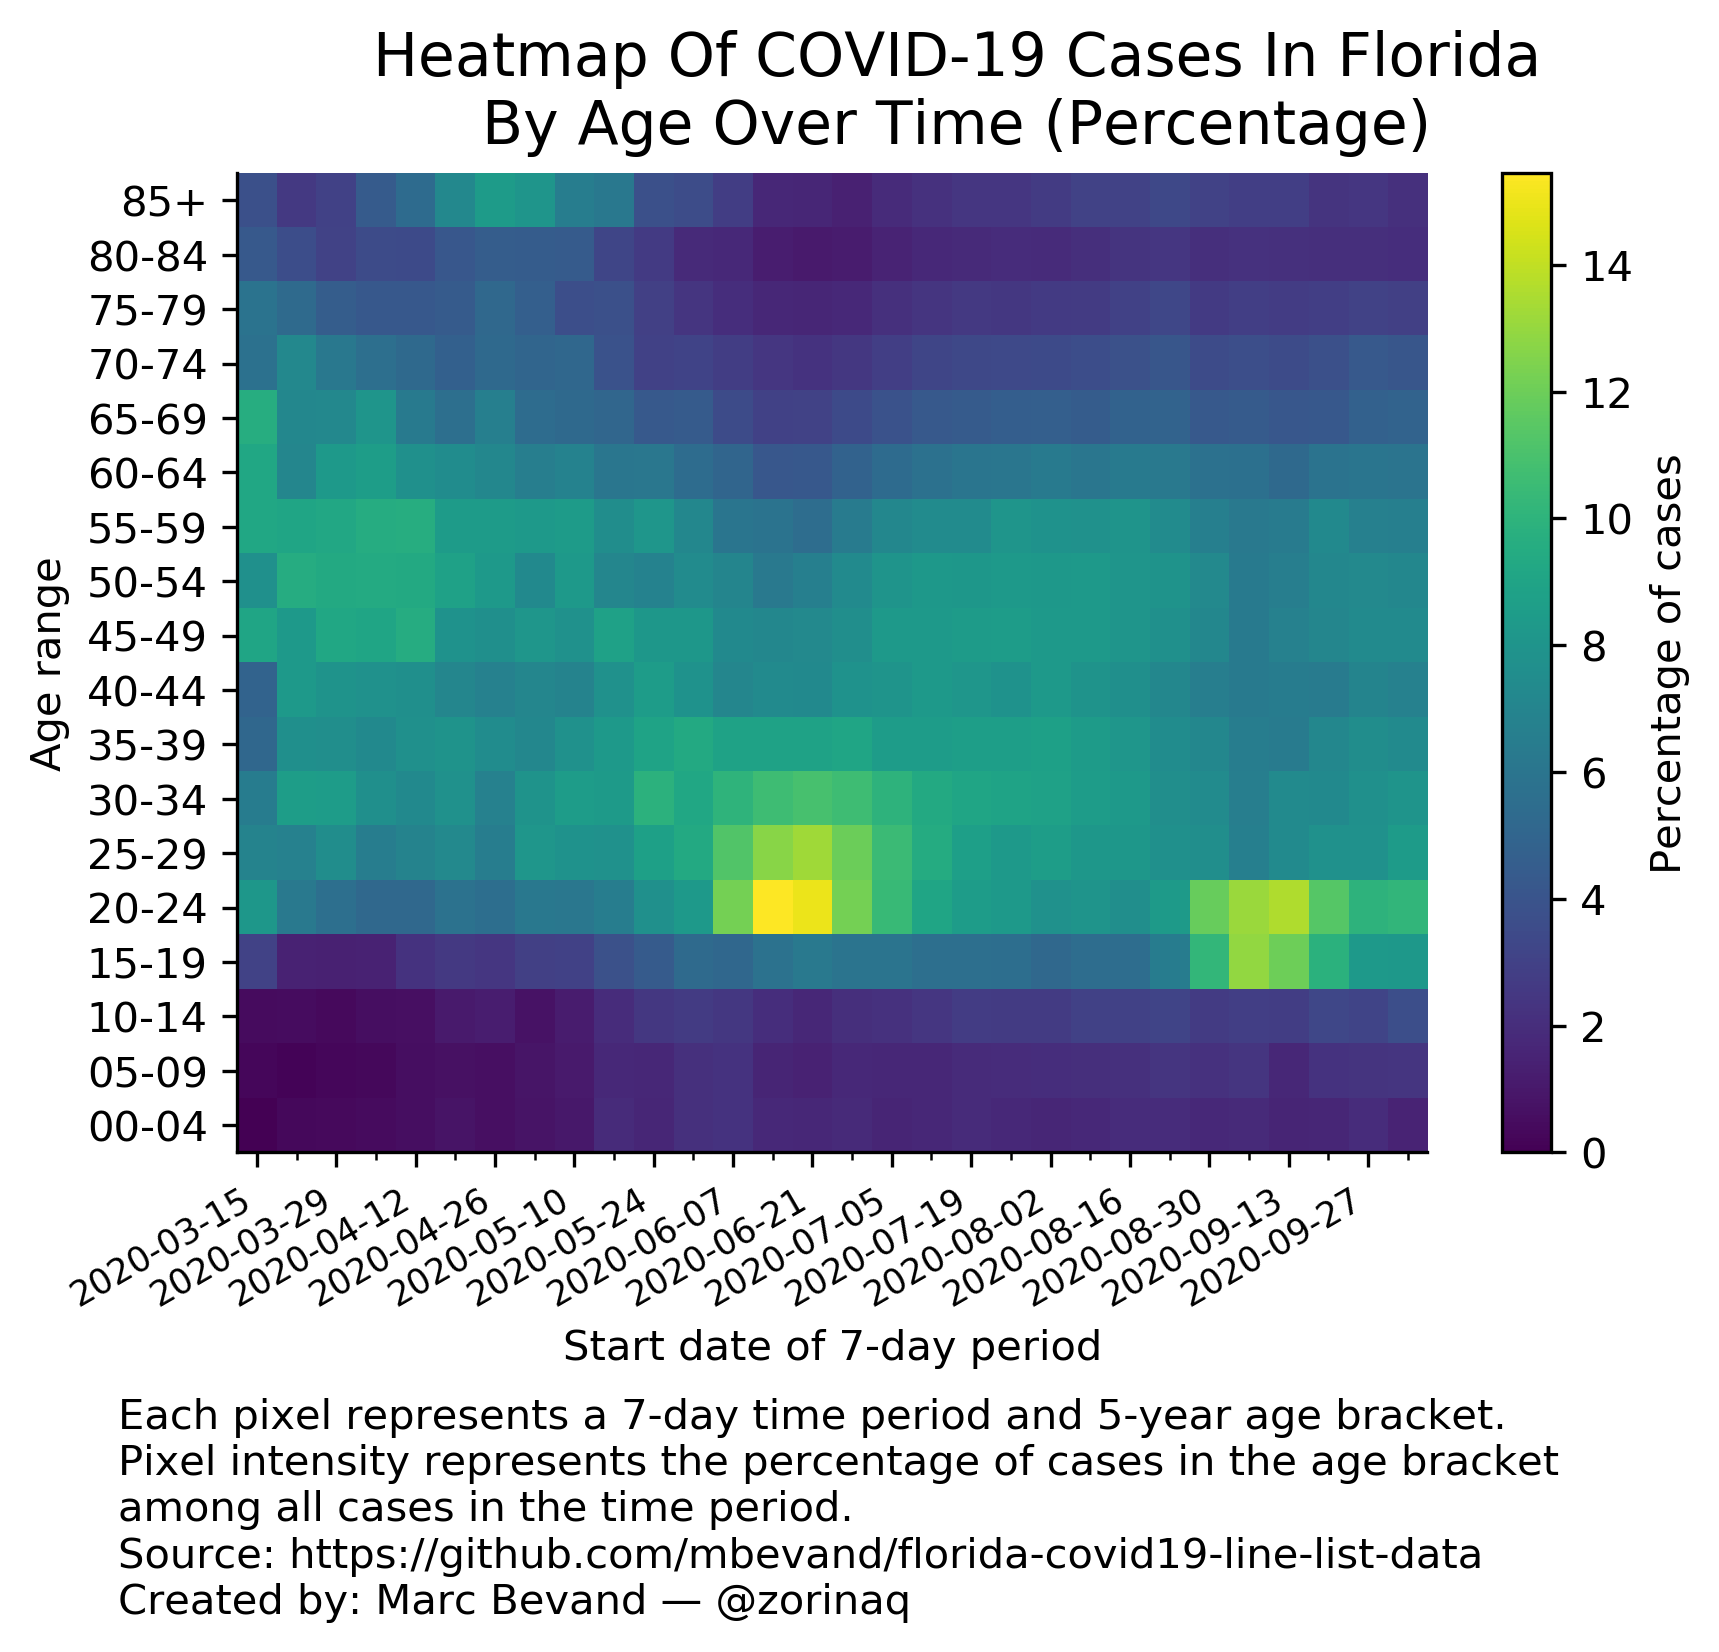
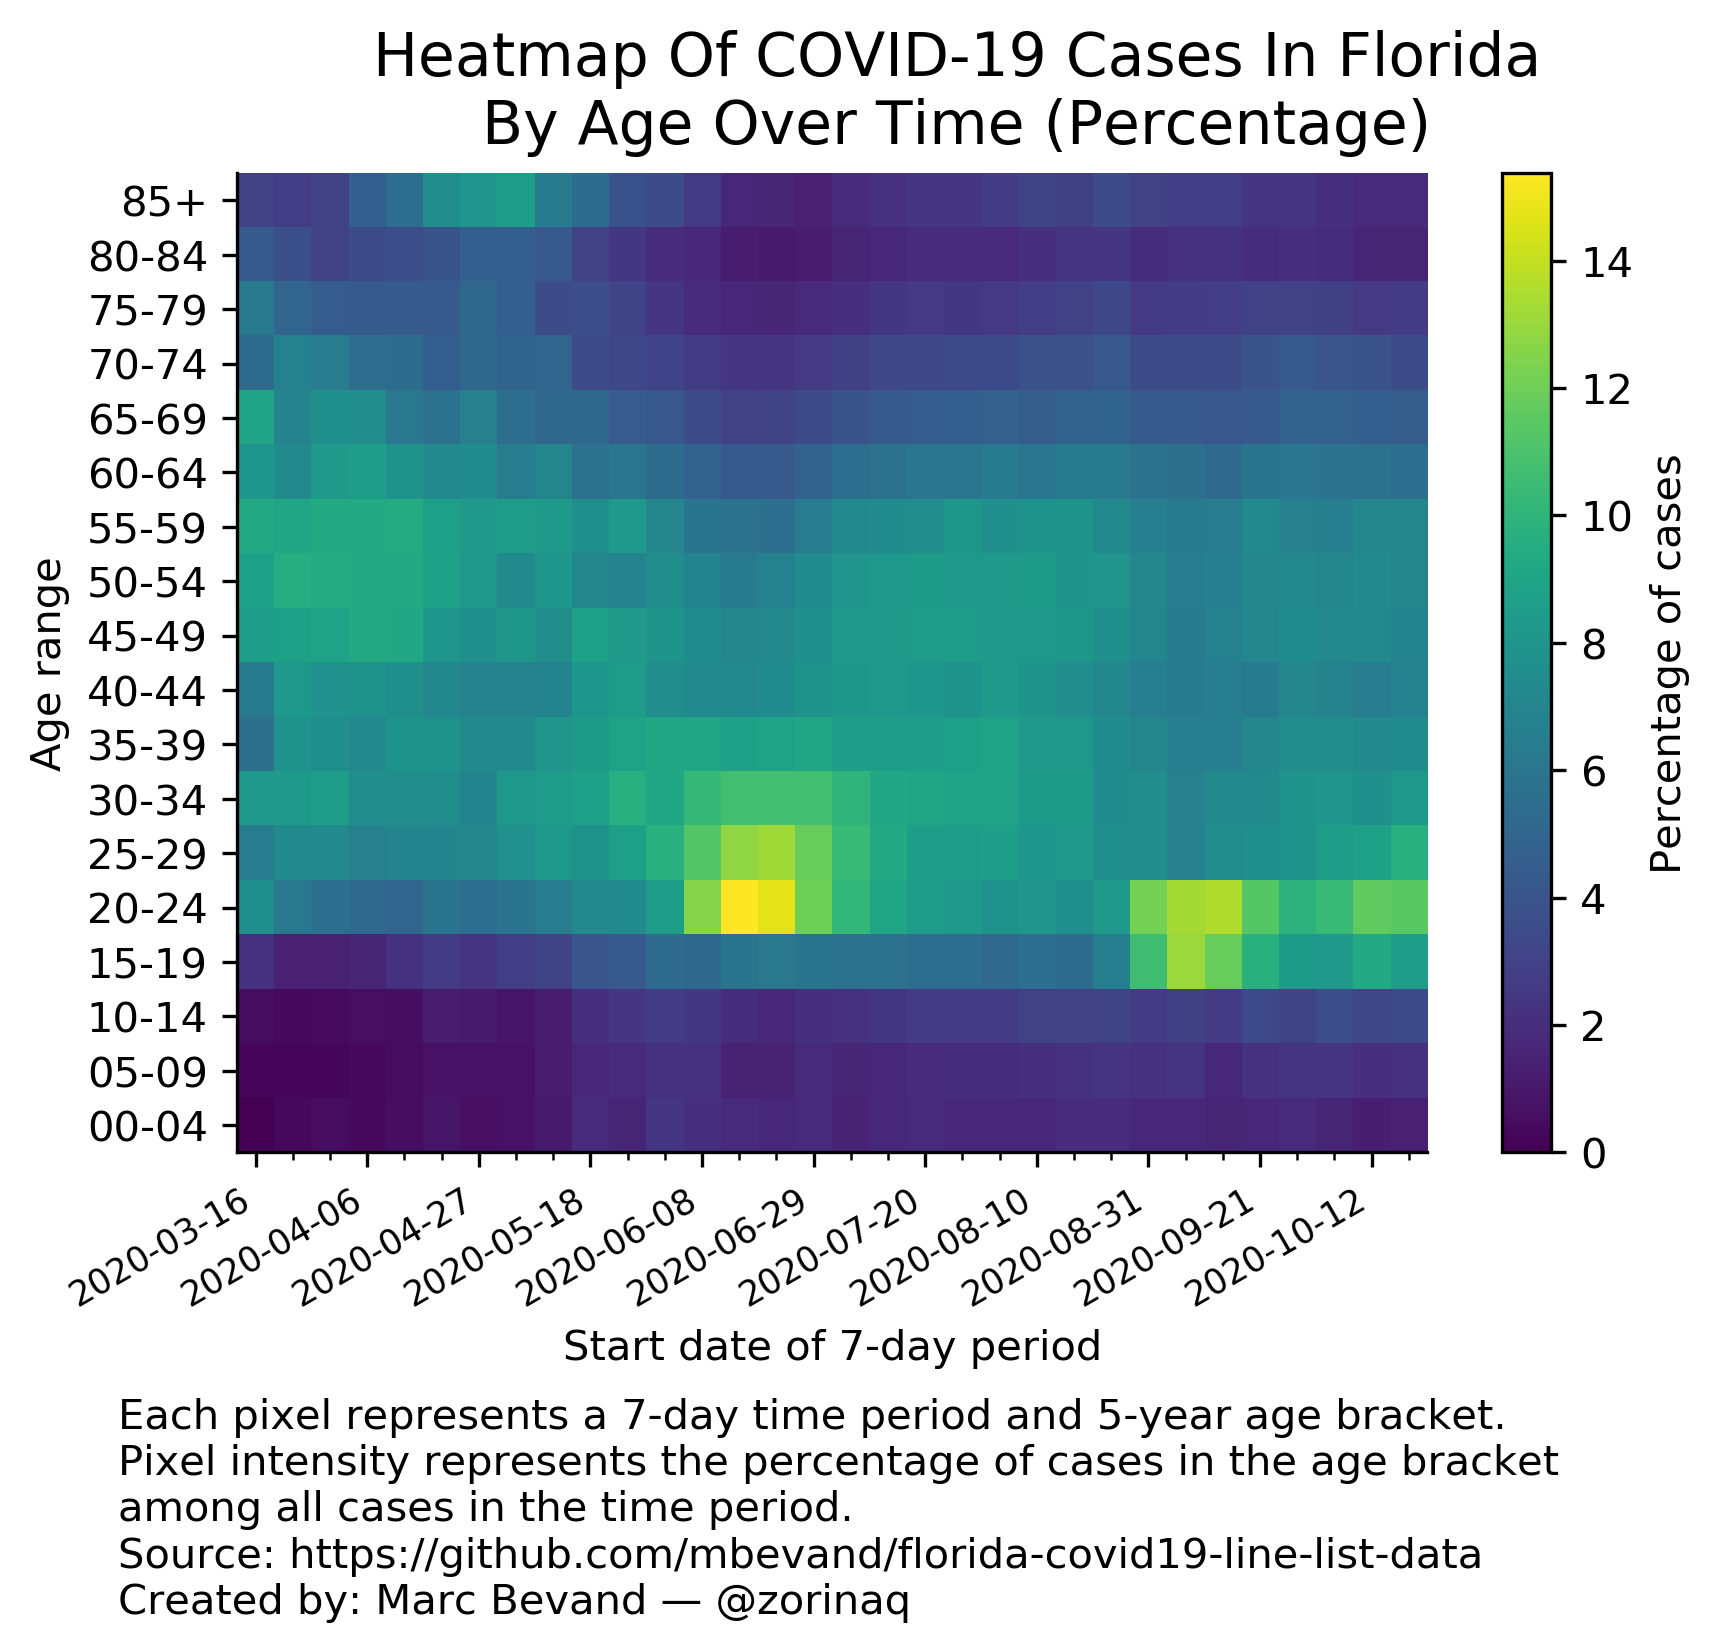
update heatmap

diff --git a/README.md b/README.md
@@ -1,6 +1,6 @@
 # Forecasting deaths and analyzing age trends of COVID-19 cases in Florida
 
-*Updated: 14 Oct 2020*
+*Updated: 26 Oct 2020*
 
 Author: Marc Bevand
 
@@ -388,42 +388,44 @@ It creates various heatmaps of cases by age over time:
 
 ```
 $ ./heatmap.py
-Opening data_fdoh/2020-10-11-09-26-07.csv.gz
+Opening data_fdoh/2020-10-26-07-47-09.csv.gz
 Number of COVID-19 cases per 7-day time period in Florida by age bracket over time:
 period_start, 00-04, 05-09, 10-14, 15-19, 20-24, 25-29, 30-34, 35-39, 40-44, 45-49, 50-54, 55-59, 60-64, 65-69, 70-74, 75-79, 80-84, 85+, median_age
-  2020-03-01,     0,     0,     0,     0,     1,     1,     0,     0,     0,     0,     1,     1,     2,     2,     2,     3,     0,     0,  65.0
-  2020-03-08,     0,     0,     0,     4,     7,     3,     2,     5,     6,     8,     4,     8,     9,    17,    10,     4,     3,     1,  59.0
-  2020-03-15,     0,     2,     3,    21,    57,    48,    45,    36,    34,    63,    54,    64,    64,    67,    40,    41,    30,    26,  53.0
-  2020-03-22,    10,     5,    17,    49,   205,   223,   282,   254,   272,   273,   315,   298,   234,   235,   237,   176,   121,    84,  50.0
-  2020-03-29,    32,    21,    28,   109,   428,   577,   652,   583,   604,   701,   716,   704,   631,   550,   470,   345,   234,   228,  50.0
-  2020-04-05,    34,    25,    42,   108,   383,   481,   568,   541,   577,   669,   699,   706,   636,   593,   418,   313,   262,   326,  51.0
-  2020-04-12,    37,    35,    41,   142,   330,   437,   465,   494,   490,   608,   595,   613,   493,   405,   335,   270,   220,   344,  50.0
-  2020-04-19,    49,    39,    67,   149,   341,   426,   459,   466,   416,   462,   518,   498,   441,   332,   279,   259,   246,   424,  50.0
-  2020-04-26,    29,    29,    55,   111,   251,   295,   307,   339,   305,   348,   374,   382,   323,   301,   239,   235,   205,   381,  52.0
-  2020-05-03,    37,    38,    35,   132,   276,   364,   355,   321,   319,   364,   328,   373,   297,   245,   225,   211,   202,   362,  50.0
-  2020-05-10,    51,    58,    60,   151,   313,   401,   435,   399,   353,   399,   423,   432,   351,   270,   262,   190,   225,   334,  49.0
-  2020-05-17,    94,    88,    98,   193,   329,   392,   423,   417,   392,   443,   357,   379,   306,   257,   197,   188,   161,   311,  46.0
-  2020-05-24,    91,    94,   136,   242,   424,   481,   544,   491,   468,   447,   375,   444,   336,   237,   165,   159,   144,   207,  42.0
-  2020-05-31,   162,   161,   201,   400,   624,   707,   693,   706,   594,   617,   560,   539,   413,   333,   232,   181,   138,   269,  40.0
-  2020-06-07,   258,   256,   290,   592,  1399,  1287,  1151,  1019,   813,   839,   805,   688,   575,   402,   320,   235,   205,   324,  37.0
-  2020-06-14,   392,   342,   436,  1270,  3356,  2757,  2317,  1940,  1605,  1554,  1362,  1277,   915,   652,   528,   378,   270,   379,  34.0
-  2020-06-21,   764,   643,   762,  2757,  6592,  5830,  4807,  3907,  3229,  3192,  2944,  2436,  1868,  1347,   989,   717,   496,   721,  34.0
-  2020-06-28,  1068,  1047,  1202,  3466,  7125,  6985,  6216,  5291,  4588,  4441,  4301,  3740,  2815,  2030,  1457,  1052,   676,   826,  36.0
-  2020-07-05,  1109,  1188,  1523,  4110,  7210,  7311,  6943,  5948,  5553,  5755,  5535,  4983,  3752,  2696,  1994,  1488,  1059,  1303,  39.0
-  2020-07-12,  1369,  1380,  1925,  4465,  7197,  7550,  7431,  6797,  6612,  6595,  6529,  5914,  4579,  3430,  2573,  1906,  1425,  1740,  41.0
-  2020-07-19,  1407,  1409,  2015,  4131,  6277,  6396,  6676,  6344,  5967,  6244,  6027,  5489,  4406,  3264,  2444,  1873,  1357,  1774,  41.0
-  2020-07-26,  1120,  1247,  1693,  3519,  5207,  5243,  5630,  5432,  4953,  5365,  5254,  5082,  3835,  2891,  2135,  1559,  1236,  1556,  42.0
-  2020-08-02,   762,   928,  1227,  2378,  3549,  3911,  4018,  4013,  3799,  3781,  3746,  3584,  2884,  2133,  1587,  1183,   864,  1230,  42.0
-  2020-08-09,   714,   857,  1221,  2260,  3258,  3340,  3475,  3454,  3232,  3369,  3396,  3179,  2462,  1829,  1496,  1103,   845,  1242,  42.0
-  2020-08-16,   544,   594,   811,  1511,  2097,  2247,  2268,  2231,  2111,  2209,  2201,  2185,  1733,  1339,  1053,   812,   638,   827,  43.0
-  2020-08-23,   413,   493,   656,  1355,  1750,  1613,  1589,  1570,  1485,  1620,  1652,  1557,  1302,  1026,   860,   687,   505,   696,  43.0
-  2020-08-30,   438,   547,   675,  2541,  2952,  1900,  1863,  1776,  1638,  1775,  1812,  1660,  1438,  1080,   877,   650,   525,   762,  39.0
-  2020-09-06,   332,   431,   510,  2324,  2358,  1202,  1190,  1177,  1134,  1143,  1145,  1123,  1023,   799,   665,   514,   396,   516,  37.0
-  2020-09-13,   322,   347,   560,  2419,  2734,  1480,  1478,  1287,  1303,  1360,  1320,  1287,  1055,   838,   711,   552,   433,   571,  37.0
-  2020-09-20,   285,   385,   555,  1671,  1925,  1329,  1243,  1214,  1089,  1204,  1209,  1247,  1000,   720,   641,   491,   353,   397,  39.0
-  2020-09-27,   319,   383,   526,  1381,  1647,  1288,  1283,  1249,  1151,  1215,  1198,  1112,   990,   787,   712,   504,   347,   401,  40.0
-  2020-10-04,   283,   431,   677,  1504,  1846,  1546,  1455,  1350,  1237,  1342,  1302,  1218,  1084,   890,   751,   532,   365,   387,  40.0
-(Last period's data may be incomplete. Age unknown for 1046 out of 734491 cases.)
+  2020-03-02,     0,     0,     0,     0,     1,     1,     0,     0,     0,     0,     1,     1,     2,     3,     2,     3,     0,     0,  65.5
+  2020-03-09,     0,     0,     0,     8,     9,     6,     3,     7,     8,    10,     5,    10,    13,    21,    11,     6,     4,     2,  57.0
+  2020-03-16,     0,     2,     5,    22,    74,    63,    80,    55,    62,    83,    84,    90,    78,    87,    52,    60,    42,    29,  52.0
+  2020-03-23,    13,     8,    15,    55,   240,   284,   323,   306,   318,   341,   373,   355,   283,   268,   262,   194,   146,   108,  50.0
+  2020-03-30,    37,    18,    32,   107,   419,   548,   641,   572,   583,   669,   706,   702,   616,   572,   484,   334,   222,   226,  50.0
+  2020-04-06,    29,    31,    49,   116,   391,   496,   560,   539,   581,   699,   697,   699,   635,   563,   407,   323,   266,   339,  51.0
+  2020-04-13,    36,    31,    36,   139,   314,   434,   474,   497,   477,   572,   582,   591,   494,   383,   341,   273,   228,   346,  50.0
+  2020-04-20,    51,    41,    68,   155,   337,   395,   427,   449,   407,   458,   497,   491,   416,   327,   261,   243,   227,   427,  50.0
+  2020-04-27,    31,    35,    52,   112,   264,   337,   330,   349,   327,   366,   391,   395,   355,   319,   248,   247,   219,   381,  52.0
+  2020-05-04,    31,    31,    36,   117,   243,   319,   335,   299,   283,   334,   300,   346,   267,   227,   204,   188,   188,   352,  50.0
+  2020-05-11,    59,    65,    66,   168,   346,   437,   453,   429,   370,   405,   431,   441,   377,   277,   267,   189,   225,   343,  48.0
+  2020-05-18,   100,    95,   114,   217,   386,   419,   465,   447,   431,   472,   377,   411,   307,   274,   192,   194,   163,   292,  45.0
+  2020-05-25,    84,    94,   128,   224,   387,   454,   505,   460,   440,   430,   358,   429,   313,   229,   172,   164,   130,   201,  42.0
+  2020-06-01,   190,   172,   210,   424,   676,   764,   719,   720,   589,   626,   589,   547,   425,   326,   244,   193,   152,   282,  40.0
+  2020-06-08,   259,   269,   305,   625,  1535,  1370,  1249,  1101,   900,   910,   848,   721,   590,   429,   331,   233,   208,   315,  37.0
+  2020-06-15,   414,   349,   452,  1361,  3492,  2916,  2434,  1997,  1643,  1623,  1446,  1334,   962,   671,   546,   399,   275,   405,  34.0
+  2020-06-22,   806,   698,   803,  2875,  6866,  6145,  5037,  4162,  3494,  3379,  3146,  2623,  2006,  1469,  1064,   757,   527,   763,  35.0
+  2020-06-29,  1086,  1071,  1248,  3543,  7094,  6970,  6337,  5373,  4637,  4561,  4378,  3842,  2867,  2079,  1500,  1089,   699,   819,  36.0
+  2020-07-06,  1172,  1245,  1632,  4357,  7693,  7823,  7524,  6462,  6140,  6276,  6028,  5492,  4174,  2952,  2179,  1612,  1179,  1486,  39.0
+  2020-07-13,  1371,  1380,  1928,  4468,  7014,  7287,  7163,  6637,  6367,  6431,  6350,  5731,  4491,  3383,  2571,  1913,  1395,  1719,  41.0
+  2020-07-20,  1376,  1404,  1980,  3997,  6048,  6193,  6485,  6144,  5810,  6122,  5999,  5411,  4319,  3199,  2385,  1826,  1384,  1762,  41.0
+  2020-07-27,  1045,  1190,  1598,  3276,  4853,  4970,  5271,  5128,  4668,  5005,  4839,  4796,  3562,  2701,  1996,  1472,  1140,  1439,  42.0
+  2020-08-03,   756,   910,  1224,  2359,  3517,  3831,  3978,  3992,  3716,  3734,  3702,  3473,  2855,  2111,  1541,  1153,   826,  1212,  42.0
+  2020-08-10,   706,   804,  1168,  2184,  3134,  3178,  3281,  3247,  3130,  3212,  3284,  3100,  2362,  1774,  1485,  1099,   847,  1243,  43.0
+  2020-08-17,   528,   590,   808,  1453,  2057,  2199,  2237,  2191,  2020,  2182,  2133,  2126,  1700,  1317,  1016,   788,   635,   786,  43.0
+  2020-08-24,   402,   480,   642,  1350,  1704,  1568,  1530,  1526,  1466,  1576,  1642,  1501,  1284,  1012,   850,   675,   502,   724,  43.0
+  2020-08-31,   432,   554,   664,  2668,  3050,  1908,  1885,  1768,  1643,  1765,  1789,  1652,  1435,  1090,   888,   649,   498,   748,  38.0
+  2020-09-07,   322,   426,   517,  2333,  2378,  1193,  1202,  1178,  1122,  1139,  1152,  1122,  1020,   770,   641,   492,   387,   502,  37.0
+  2020-09-14,   320,   341,   545,  2347,  2697,  1499,  1458,  1305,  1307,  1349,  1316,  1296,  1043,   827,   701,   550,   451,   556,  37.0
+  2020-09-21,   284,   366,   547,  1566,  1818,  1239,  1169,  1140,  1019,  1145,  1142,  1186,   963,   700,   630,   477,   327,   367,  39.0
+  2020-09-28,   307,   392,   538,  1425,  1683,  1338,  1348,  1283,  1208,  1275,  1247,  1139,  1028,   822,   732,   510,   352,   416,  40.0
+  2020-10-05,   295,   431,   668,  1520,  1891,  1562,  1469,  1384,  1253,  1323,  1287,  1214,  1074,   881,   743,   533,   370,   376,  39.0
+  2020-10-12,   266,   447,   690,  1951,  2421,  1826,  1606,  1521,  1348,  1527,  1530,  1480,  1195,   956,   818,   532,   326,   384,  38.0
+  2020-10-19,   360,   564,   871,  2193,  2925,  2471,  2099,  1896,  1731,  1775,  1793,  1783,  1422,  1154,   907,   685,   410,   485,  38.0
+(Last period's data may be incomplete. Age unknown for 1055 out of 782013 cases.)
 ```
 
 By default the size of each pixel, or *bucket*, is 5-year age brackets and 7-day
